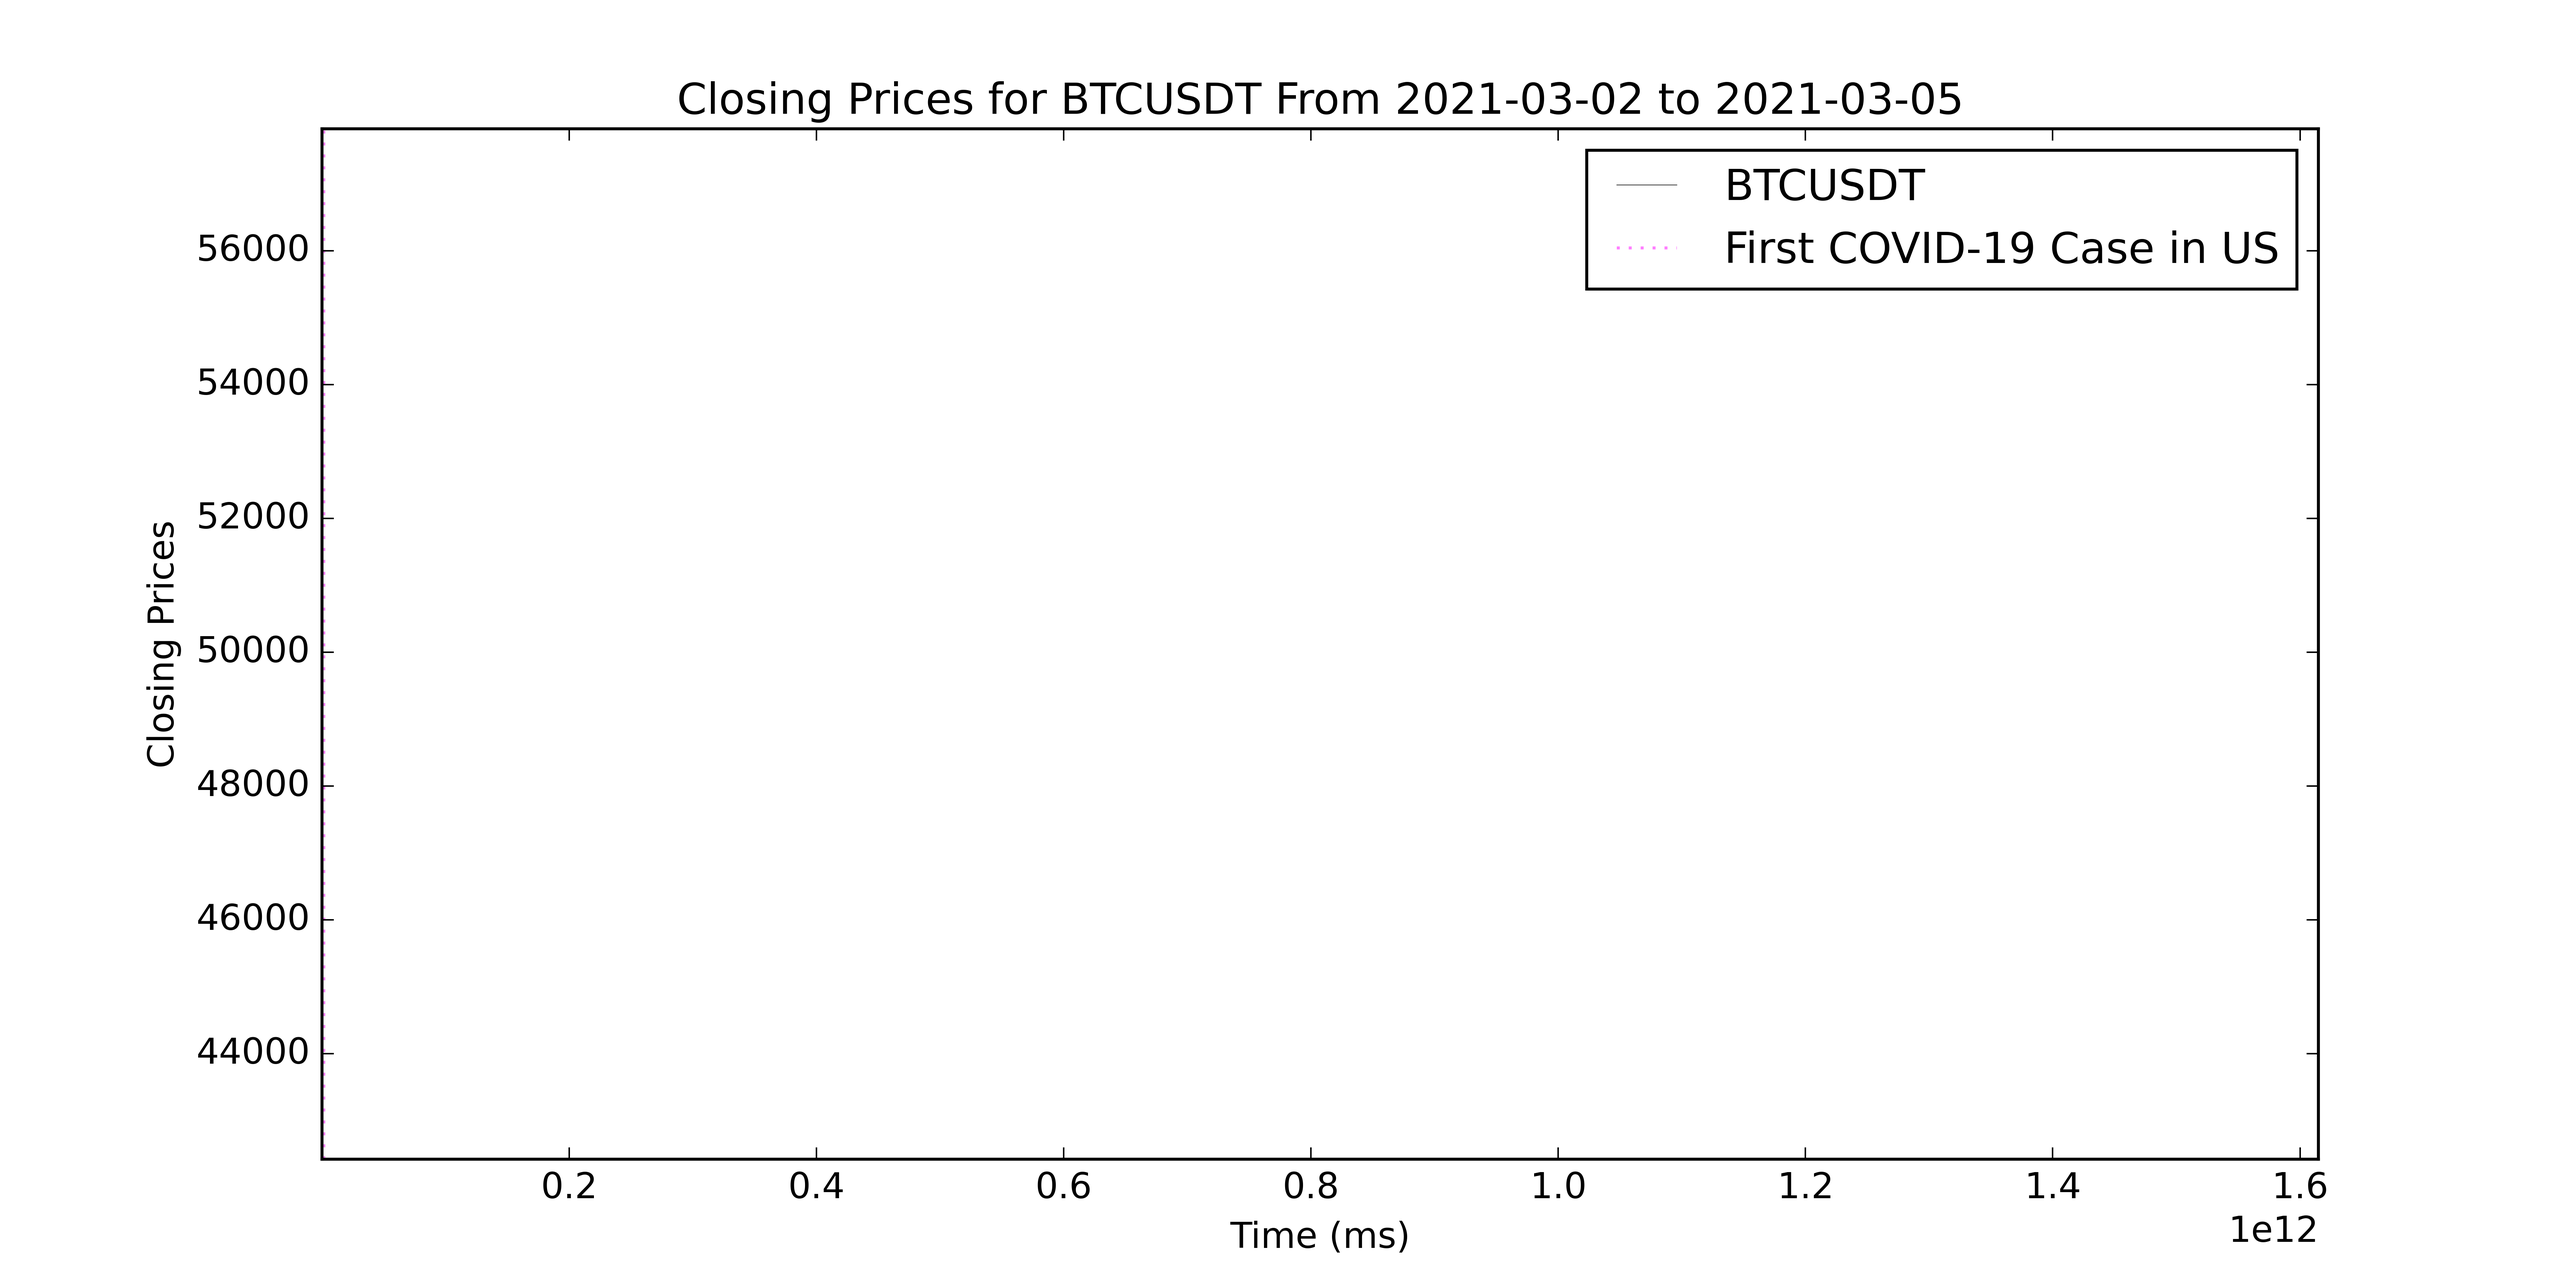
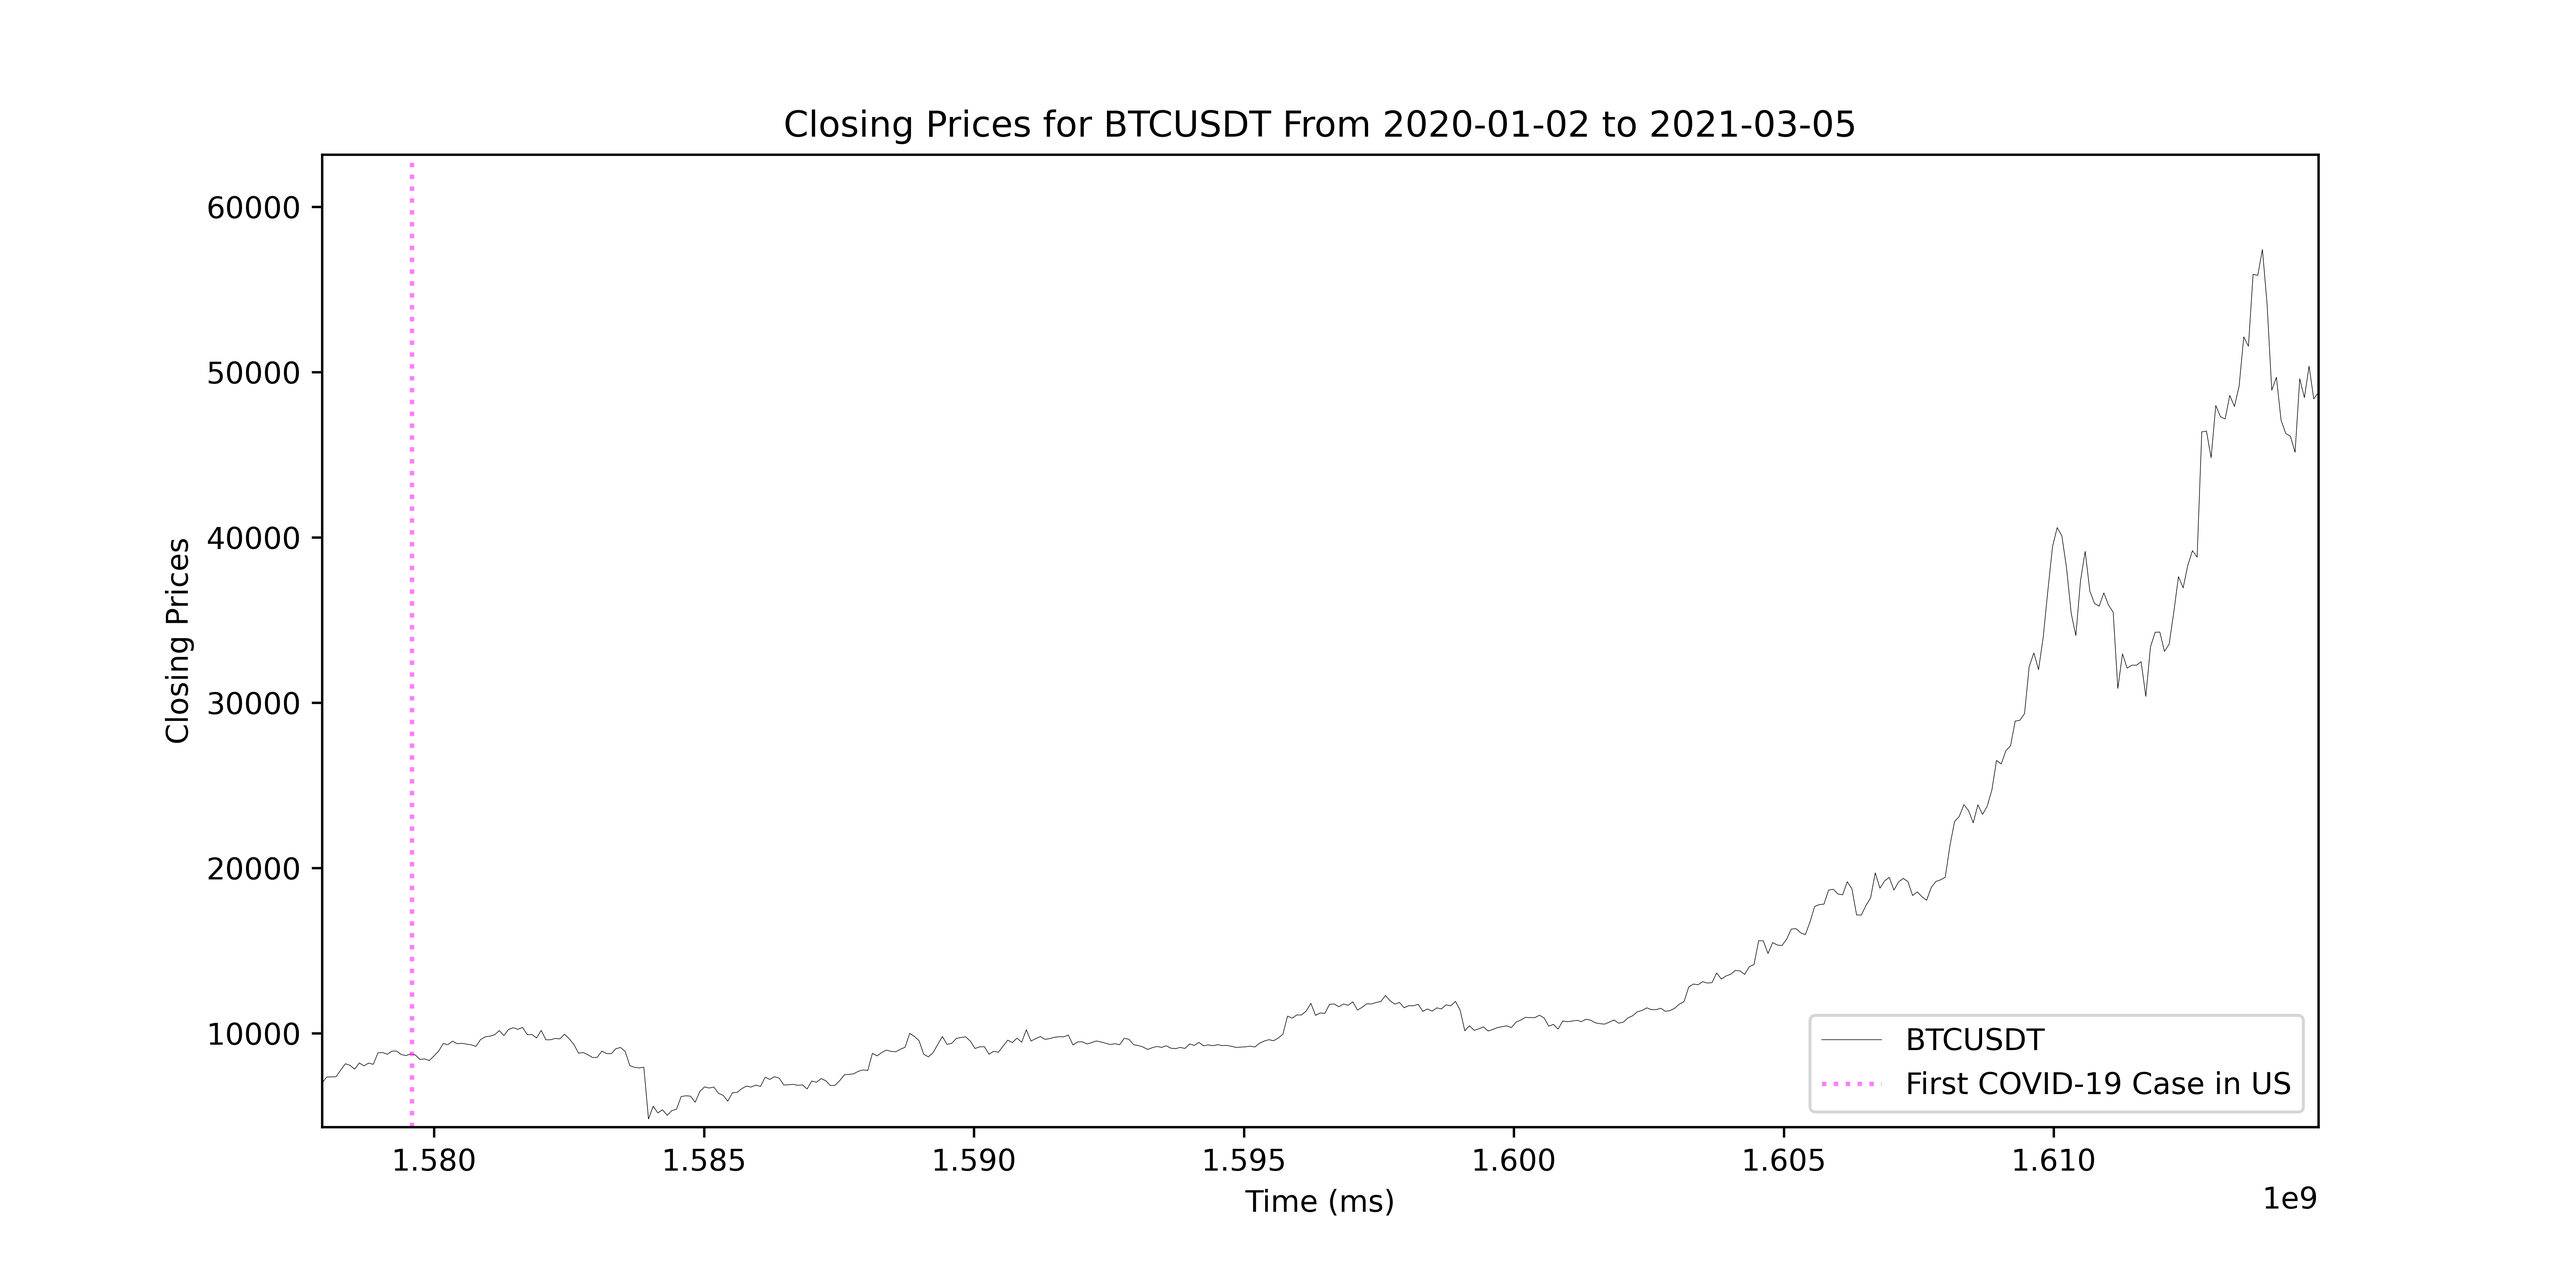
not sure what I did here...

diff --git a/algofinance/generalanalysis/datareader.py b/algofinance/generalanalysis/datareader.py
@@ -40,12 +40,13 @@ TimeUnits = {'1M': 60*60*24*7*30, '1w': 60*60*24*7, '3d': 60*60*24*3,
 
 class DataReader:
 
-    def __init__(self, symbol, source, daterange, interval):
+    def __init__(self, symbol, source, daterange, tick='1d', timeunit='1d'):
 
         self.Symbol = symbol
         self.Source = source
-        self.Interval = interval
+        self.Tick = tick
         self.DateRange = daterange
+        self.TimeUnit = TimeUnits[timeunit]
         self.TimeFormat = '%Y-%m-%d'
         self.APIKey = (***REMOVED***
 ***REMOVED***)
@@ -59,7 +60,7 @@ class DataReader:
         start = time.strptime('{}'.format(self.DateRange[0]), self.TimeFormat)
         end = time.strptime('{}'.format(self.DateRange[1]), self.TimeFormat)
         start = time.mktime(start)
-        end = time.mktime(end) + (TimeUnits[self.Interval])
+        end = time.mktime(end) + (TimeUnits[self.Tick])
 
         start = time.strftime(self.TimeFormat, time.gmtime(start))
         end = time.strftime(self.TimeFormat, time.gmtime(end))
@@ -69,7 +70,8 @@ class DataReader:
 
         Closes = data[TimeFormats[self.Source]['Close']].values.tolist()
         Dates = data[TimeFormats[self.Source]['Timestamp']].values.tolist()
-        # Dates = [Dates[date]/1e12 for date in range(0, len(Dates))]
+        Dates = [Dates[date]/1e9 for date in range(0, len(Dates))]
+        Dates = [Dates[date]/self.TimeUnit for date in range(0, len(Dates))]
 
         return np.array(Dates), np.array(Closes)
 
@@ -83,7 +85,7 @@ class DataReader:
         start = time.strftime(self.TimeFormat, time.gmtime(start))
         end = time.strftime(self.TimeFormat, time.gmtime(end))
         klines = self.BClient.get_historical_klines(self.Symbol,
-                                                    self.Interval,
+                                                    self.Tick,
                                                     start, end, 1000)
 
         data = pd.DataFrame(klines, columns=[
@@ -95,7 +97,8 @@ class DataReader:
         Closes = data[TimeFormats[self.Source]['Close']].values.tolist()
         Closes = [float(Closes[close]) for close in range(0, len(Closes))]
         Dates = data[TimeFormats[self.Source]['Timestamp']].values.tolist()
-        # Dates = [Dates[date]/1e6 for date in range(0, len(Dates))]
+        Dates = [Dates[date]/1e3 for date in range(0, len(Dates))]
+        Dates = [Dates[date]/self.TimeUnit for date in range(0, len(Dates))]
 
         return np.array(Dates), np.array(Closes)
 

diff --git a/algofinance/generalanalysis/plotting_example.py b/algofinance/generalanalysis/plotting_example.py
@@ -14,10 +14,10 @@ import matplotlib.pyplot as plt
 import time
 import numpy as np
 
-start = '2021-03-02'
+start = '2020-01-02'
 end = '2021-03-05'
 dates = (start, end)
-BTC = dr.DataReader('BTCUSDT', 'binance', dates, '1m')
+BTC = dr.DataReader('BTCUSDT', 'binance', dates, '1d')
 
 
 PandemicStartTime = (time.mktime(time.strptime('01/21/2020', '%m/%d/%Y')))
@@ -30,9 +30,9 @@ fig = plt.figure(1, figsize=(12, 6))
 plt.plot(BTC.Dates, BTC.Closes, color='black', label='BTCUSDT', linewidth=.2)
 plt.plot(PanX, PanY, label='First COVID-19 Case in US', alpha=.5,
          linestyle=':', color='magenta')
-plt.xlabel('Time (ms)')
+plt.xlabel('Time (days)')
 plt.ylabel('Closing Prices')
-plt.xlim(BTC.Closes[0], BTC.Dates[-1])
+plt.xlim(BTC.Dates[0], BTC.Dates[-1])
 plt.ylim(.9*min(BTC.Closes), 1.1*max(BTC.Closes))
 plt.title('Closing Prices for BTCUSDT From {} to {}'.format(start, end))
 plt.legend(loc='best')

diff --git a/algofinance/generalanalysis/datareader_example.py b/algofinance/generalanalysis/datareader_example.py
@@ -16,8 +16,8 @@ def main():
     start = '2021-03-02'
     end = '2021-03-05'
     dates = (start, end)
-    BTC = dr.DataReader('BTCUSDT', 'binance', dates, '1d')
-    TSLA = dr.DataReader('TSLA', 'yahoo', dates, '1d')
+    BTC = dr.DataReader('BTCUSDT', 'binance', dates, tick='1d', timeunit='3d')
+    TSLA = dr.DataReader('TSLA', 'yahoo', dates)
     print('BTC:', BTC.Dates, '\n', 'TSLA:', TSLA.Dates)
 
 

diff --git a/algofinance/generalanalysis/variations_example.py b/algofinance/generalanalysis/variations_example.py
@@ -17,7 +17,7 @@ def main():
     start = '2020-02-05'
     end = '2021-03-05'
     dates = (start, end)
-    BTC = dr.DataReader('BTCUSDT', 'binance', dates, '1d')
+    BTC = dr.DataReader('BTCUSDT', 'binance', dates, tick='1d', timeunit='1d')
     BTCVariations = vr.Variations(BTC.Dates, BTC.Closes, normalized=True)
 
     plt.bar(BTCVariations.Dates, BTCVariations.Variations)
